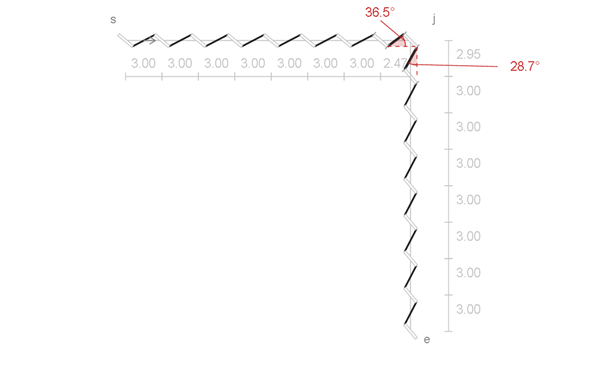
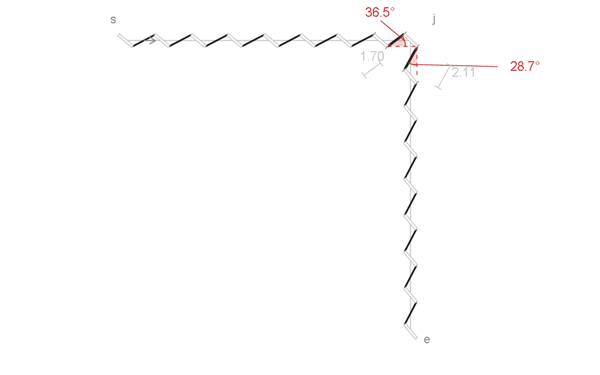
Focus mirrored corner annotations on visible stitches and angles

diff --git a/examples/illustrated/README.md b/examples/illustrated/README.md
@@ -61,7 +61,7 @@ Vertex point translates its vertical row upward by $0.4821\,\mathrm{mm}$. The fi
 
 Bridge translates the vertical run between two calculated positions. Matching ordinary visible thread length moves it up $1.3273\,\mathrm{mm}$, giving $2.0870\,\mathrm{mm}$ of thread and angles $47.3^\circ$ and $42.7^\circ$. Balancing the angles moves it up $1.4463\,\mathrm{mm}$, giving $2.0012\,\mathrm{mm}$ of thread and two $45^\circ$ angles. Hold each for four seconds and interpolate over $1.5\,\mathrm{s}$ each way. The still uses the length-matched position. The whole row and its end marker move; guides and incoming row stay fixed.
 
-The mirrored treatment reuses `diagonalCornerScene` with the Sellier construction parameters from `ILL-SELLIER-CORNER`, extended to the common arm lengths. Its rows stay nominal from the outer endpoints; only the final gaps into the vertex slit absorb the residuals. These are approximately $2.472\,\mathrm{mm}$ and $2.954\,\mathrm{mm}$; the first is below the Autostitch gap bound. Total absolute adjustment matches A6, but the adjusted-gap count does not. The top row starts punched; the vertical row mirrors in place before the shared diagonal slit appears.
+The mirrored treatment reuses `diagonalCornerScene` with the Sellier construction parameters from `ILL-SELLIER-CORNER`, extended to the common arm lengths. Its rows stay nominal from the outer endpoints; only the final gaps into the vertex slit absorb the residuals. These are approximately $2.472\,\mathrm{mm}$ and $2.954\,\mathrm{mm}$; the first is below the Autostitch gap bound. Total absolute adjustment matches A6, but the adjusted-gap count does not. The top row starts punched; the vertical row mirrors in place before the shared diagonal slit appears. Omit arm gap dimensions. Show only the two visible corner-thread lengths and red thread angles when the thread appears; length dimensions lighten with the slits.
 
 The Autostitch solution starts with nominal rows anchored at the original outer endpoints. Its virtual slits continue the nominal rows one pitch beyond their last real slits; they are not centred on the vertex. Move the terminal virtuals and their nominally spaced real neighbours until the selected tips meet (A6), then fit the free spans while keeping the outer endpoints, neighbours and hole fixed. Gap values update; provisional gaps outside the bounds are red. The final incoming arm has two $3.264\,\mathrm{mm}$ adjusted gaps; the outgoing arm has one $3.046\,\mathrm{mm}$ adjusted gap. `I` marks identify them. Reveal the thread together and hold for four seconds.
 

diff --git a/docs/PITCH_skeleton.md b/docs/PITCH_skeleton.md
@@ -108,11 +108,10 @@
 
 ![A shared diagonal slit joins the top row to a row with mirrored lean](../examples/illustrated/assets/problem-corner-mirrored.gif)
 
-- Shared diagonal slit at the vertex; mirrored lean on one arm
-- Nominal arm spacing; residual absorbed only in each final gap into the shared slit
-- Retains the intended vertex; requires mirrored lean on one arm and a separately oriented corner slit
-- Corner slit sets the direction and visible length of the two adjoining stitches
-- Final gaps: $2.472\,\mathrm{mm}$ and $2.954\,\mathrm{mm}$; the first falls below Autostitch's $2.7\,\mathrm{mm}$ limit
+- Refines Bridge: carry the turn through a shared diagonal slit at the vertex and mirror the vertical row
+- Mirroring brings the outgoing corner stitch closer to the ordinary thread direction along that row
+- Arm spacing stays nominal; the final gaps into the shared slit absorb the residual
+- Length brackets show the two visible corner stitches; red angles show how they meet the arms
 
 ### Autostitch
 
